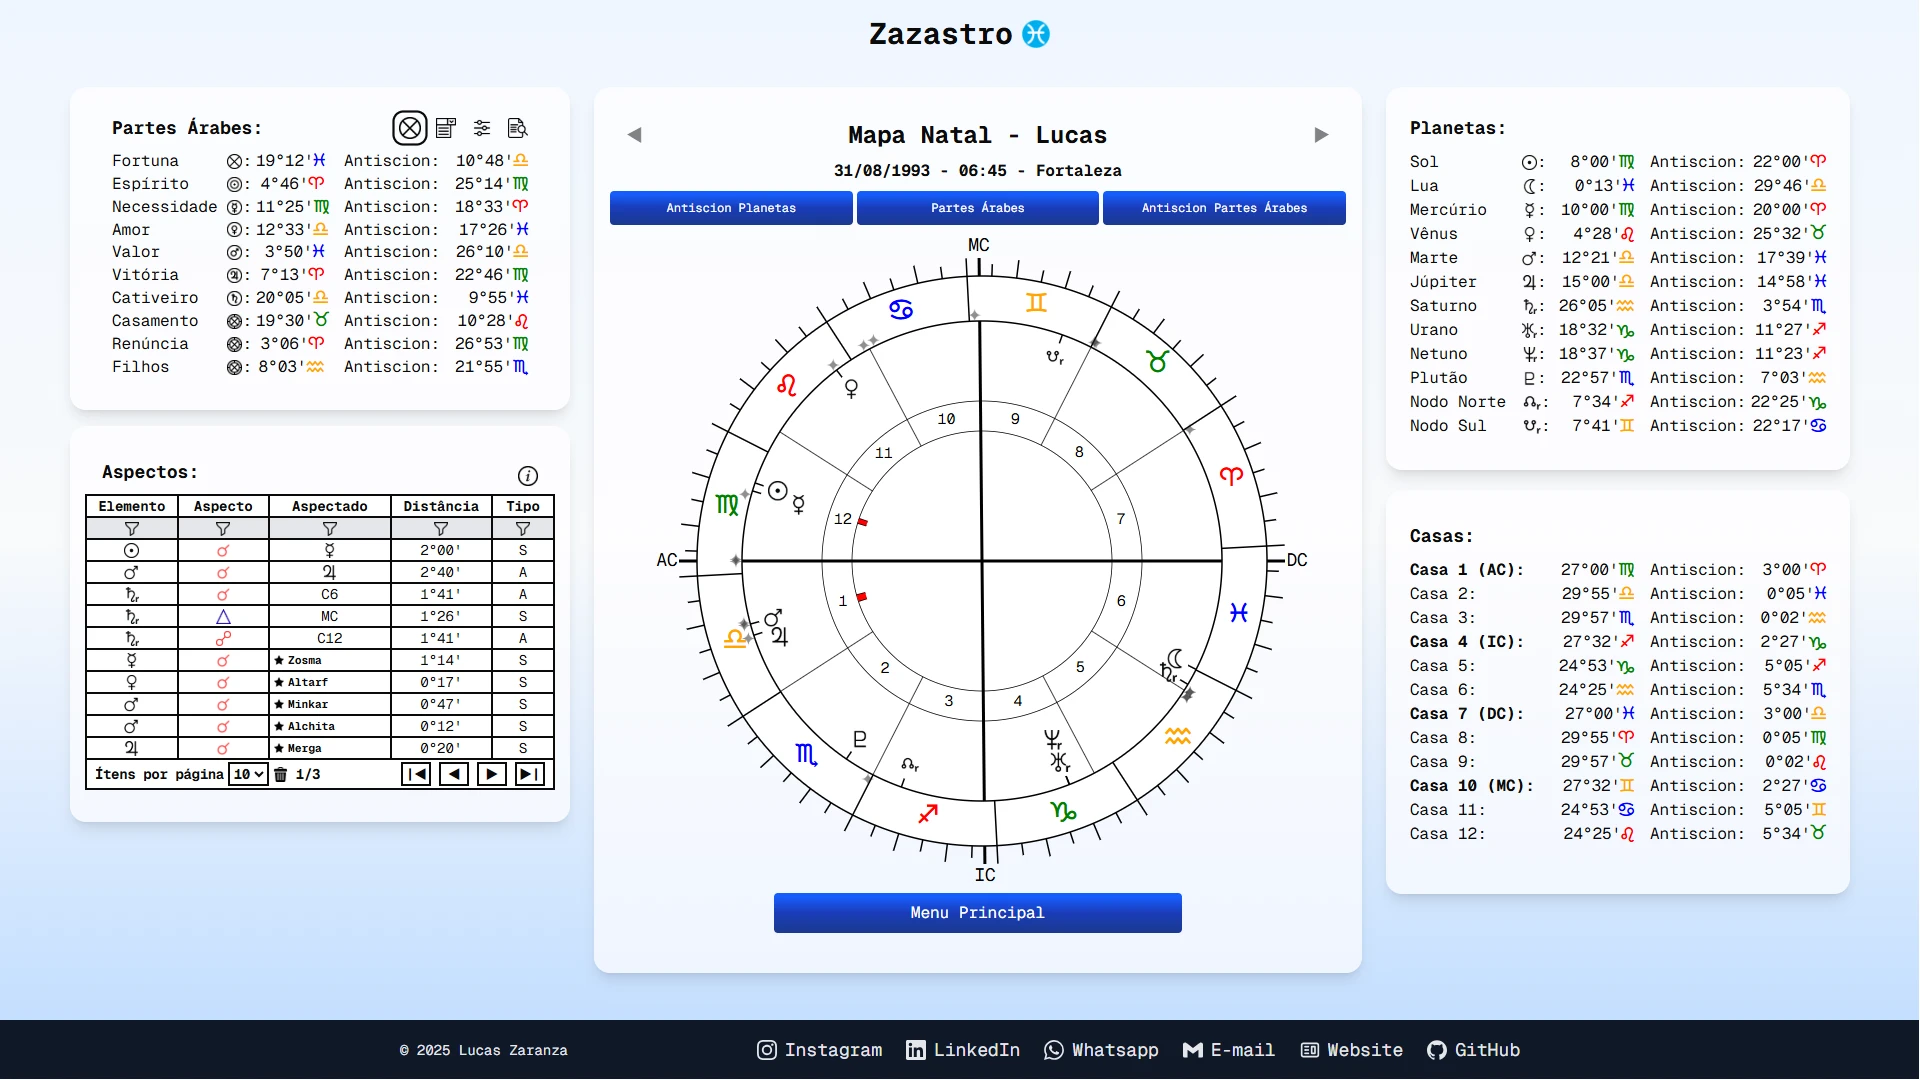
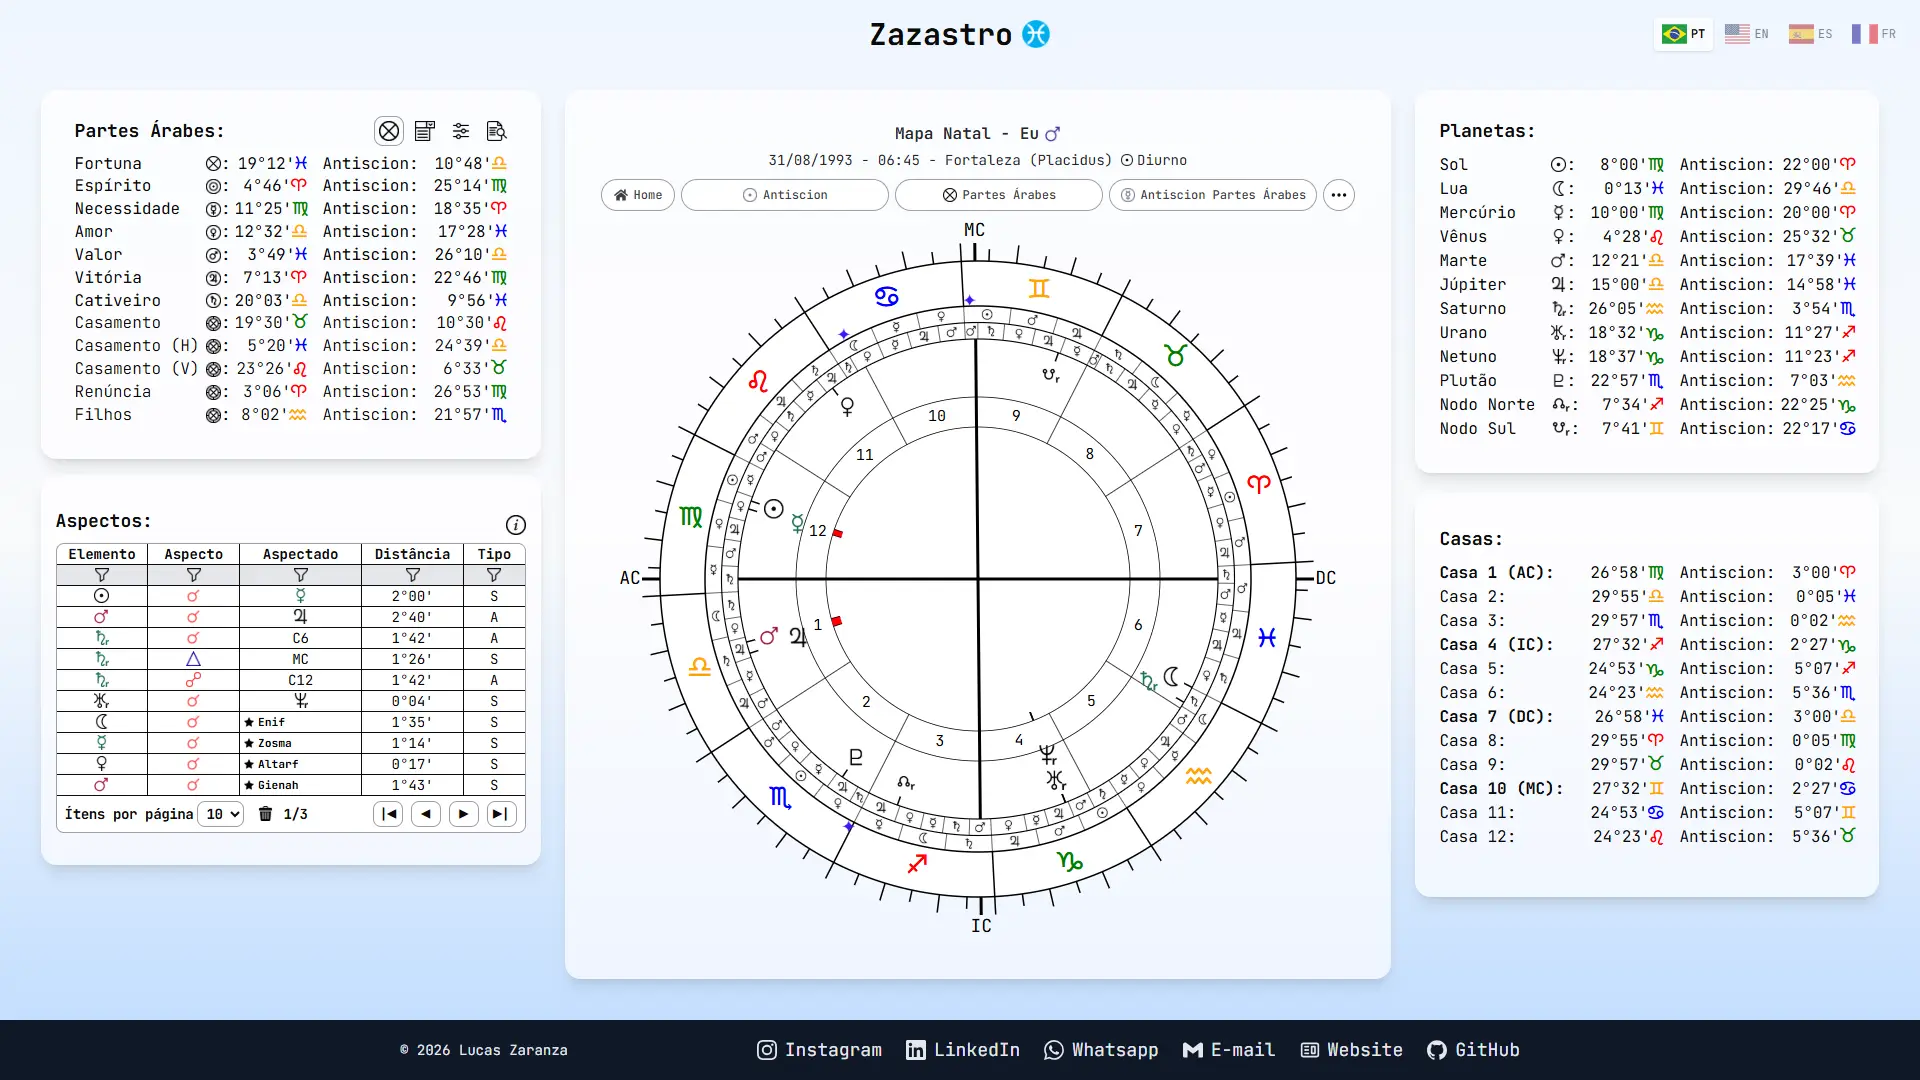
updated zazastro project img

diff --git a/src/i18n/pt.ts b/src/i18n/pt.ts
@@ -46,7 +46,7 @@ export const pt = {
         Ele fica fixado no seu Desktop, se conecta com o Google Calendar, e você pode visualizar, criar ou editar seus compromissos, que vai sincronizar tudinho com o Google Calendar. Criei uma interface moderna inspirada no design de Glassmorphism.`
       },
       astroCourse: {
-        title: 'Landig Page para Curso de Astrologia',
+        title: 'Landing Page para Curso de Astrologia',
         description: 'Landing Page para um curso de Astrologia ministrado por mim.',
       },
       portfolio: {
